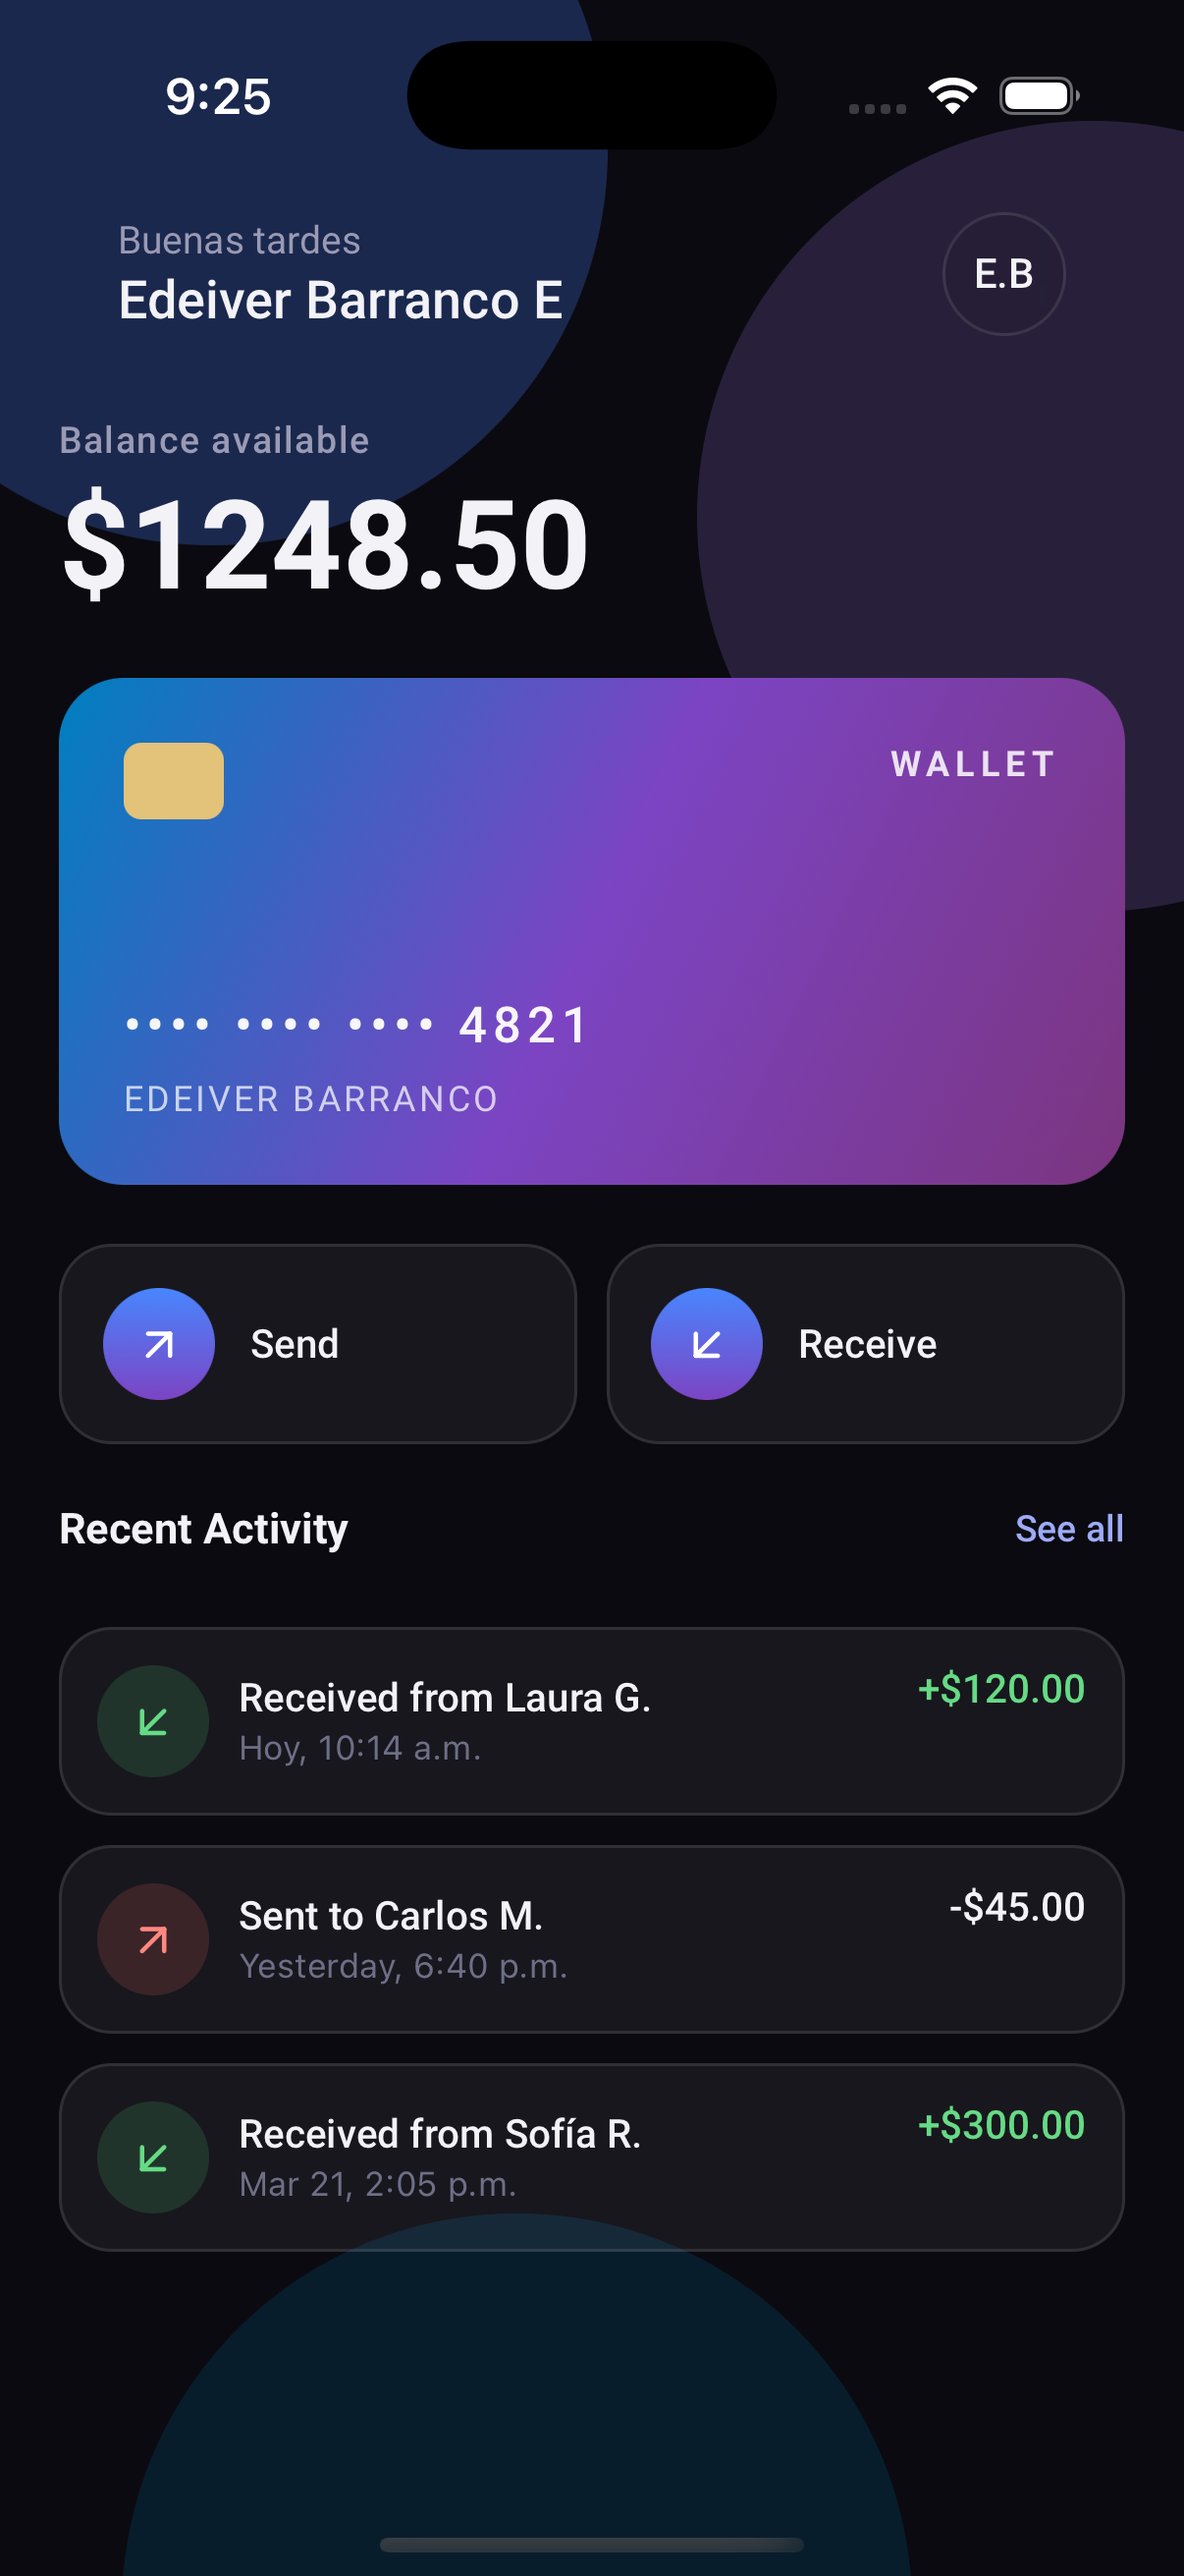
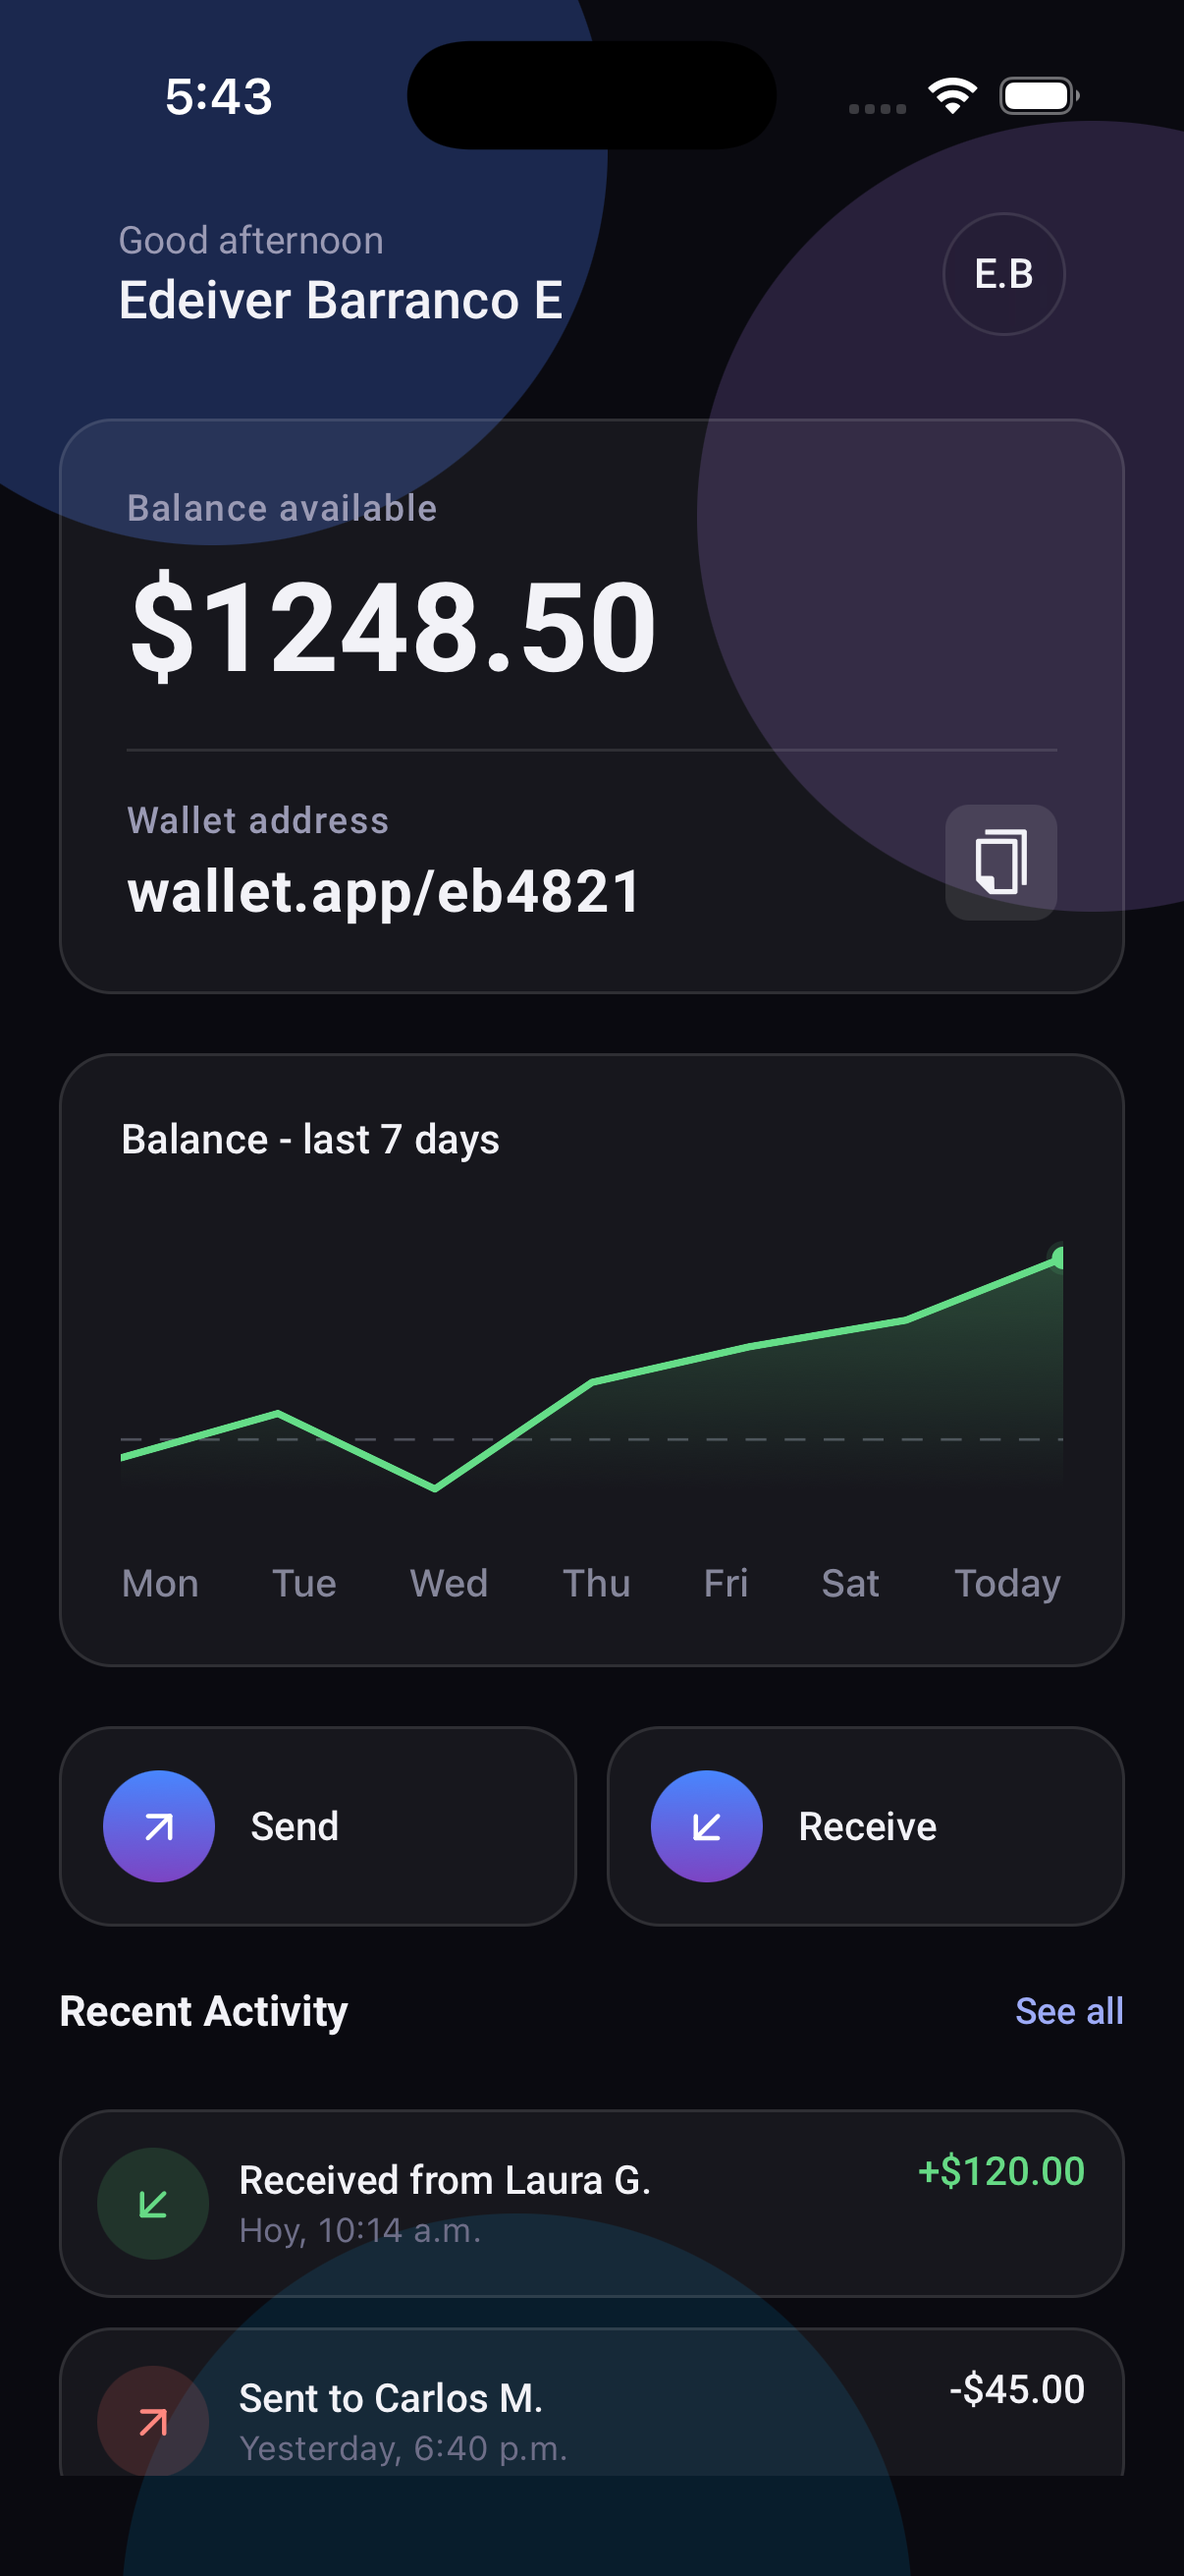
Add BalanceChart component, update Header greeting, and enhance Home screen with wallet address and copy functionality

diff --git a/src/components/BalanceChart.js b/src/components/BalanceChart.js
@@ -1,0 +1,177 @@
+import React, { useState } from "react";
+import { View, Text, StyleSheet } from "react-native";
+import Svg, {
+  Path,
+  Line,
+  Circle,
+  Defs,
+  LinearGradient,
+  Stop,
+} from "react-native-svg";
+import { COLORS, globalStyles } from "../styles";
+
+export default function BalanceChart({ data = [45, 55, 38, 62, 70, 76, 90] }) {
+  const [size, setSize] = useState({
+    width: 0,
+    height: 0,
+  });
+
+  const labels = ["Mon", "Tue", "Wed", "Thu", "Fri", "Sat", "Today"];
+
+  const handleLayout = (event) => {
+    const { width, height } = event.nativeEvent.layout;
+
+    setSize({
+      width,
+      height,
+    });
+  };
+
+  const width = size.width;
+
+  // Si todavía no conocemos el ancho, no dibujamos el SVG
+  if (!width) {
+    return (
+      <View
+        style={[globalStyles.glassCard, styles.container]}
+        onLayout={handleLayout}
+      />
+    );
+  }
+
+  /*
+   * El gráfico utiliza una proporción del espacio disponible
+   * en lugar de un tamaño fijo.
+   */
+  const chartHeight = width * 0.35;
+
+  const chartTop = chartHeight * 0.15;
+  const chartBottom = chartHeight * 0.85;
+
+  const minValue = Math.min(...data);
+  const maxValue = Math.max(...data);
+
+  const points = data.map((value, index) => {
+    const x = (index * width) / (data.length - 1);
+
+    const normalized = (value - minValue) / (maxValue - minValue || 1);
+
+    const y = chartBottom - normalized * (chartBottom - chartTop);
+
+    return {
+      x,
+      y,
+    };
+  });
+
+  const linePath = points
+    .map((point, index) => {
+      return `${index === 0 ? "M" : "L"} ${point.x} ${point.y}`;
+    })
+    .join(" ");
+
+  const areaPath = `
+    ${linePath}
+    L ${points[points.length - 1].x} ${chartBottom}
+    L ${points[0].x} ${chartBottom}
+    Z
+  `;
+
+  const guideLineY = chartBottom - chartHeight * 0.15;
+
+  return (
+    <View
+      style={[globalStyles.glassCard, styles.container]}
+      onLayout={handleLayout}
+    >
+      <Text style={styles.title}>Balance - last 7 days</Text>
+      <Svg
+        width="100%"
+        height={chartHeight}
+        viewBox={`0 0 ${width} ${chartHeight}`}
+      >
+        <Defs>
+          <LinearGradient id="chartGradient" x1="0" y1="0" x2="0" y2="1">
+            <Stop offset="0" stopColor="#65DD88" stopOpacity="0.25" />
+
+            <Stop offset="1" stopColor="#65DD88" stopOpacity="0" />
+          </LinearGradient>
+        </Defs>
+
+        {/* Línea horizontal punteada */}
+        <Line
+          x1="0"
+          y1={guideLineY}
+          x2={width}
+          y2={guideLineY}
+          stroke="#656875"
+          strokeWidth="1"
+          strokeDasharray="8 7"
+          opacity={0.7}
+        />
+
+        {/* Área debajo del gráfico */}
+        <Path d={areaPath} fill="url(#chartGradient)" />
+
+        {/* Línea */}
+        <Path
+          d={linePath}
+          fill="none"
+          stroke="#65DD88"
+          strokeWidth={width * 0.008}
+          strokeLinecap="round"
+          strokeLinejoin="round"
+        />
+
+        {/* Punto final */}
+        <Circle
+          cx={points[points.length - 1].x}
+          cy={points[points.length - 1].y}
+          r={width * 0.012}
+          fill="#65DD88"
+        />
+
+        {/* Halo */}
+        <Circle
+          cx={points[points.length - 1].x}
+          cy={points[points.length - 1].y}
+          r={width * 0.018}
+          fill="#65DD88"
+          opacity="0.12"
+        />
+      </Svg>
+
+      <View style={styles.labels}>
+        {labels.map((label) => (
+          <Text key={label} style={styles.label}>
+            {label}
+          </Text>
+        ))}
+      </View>
+    </View>
+  );
+}
+
+const styles = StyleSheet.create({
+  container: {
+    width: "100%",
+    padding: 20,
+  },
+
+  labels: {
+    flexDirection: "row",
+    justifyContent: "space-between",
+  },
+
+  label: {
+    color: "#85869A",
+    fontSize: 13,
+    fontWeight: "500",
+  },
+  title: {
+    ...globalStyles.robotoMedium,
+    fontSize: 14,
+    color: COLORS.textPrimary,
+    marginBottom: 8,
+  },
+});

diff --git a/src/screens/Home.js b/src/screens/Home.js
@@ -19,13 +19,24 @@ import { globalStyles, COLORS } from "../styles";
 import ViewComponent from "../components/ViewComponent";
 import { useBalance } from "../context/BalanceContext";
 import { fetchTransactionsFake } from "../api/fakeApi";
+import {AntDesign} from '@expo/vector-icons';
+import BalanceChart from "../components/BalanceChart";
+import * as Clipboard from "expo-clipboard";
+import { useToast } from "../context/ToastContext";
 
 const Home = ({ navigation }) => {
   const { signOut } = useContext(AuthContext);
+  const { address } =  useBalance();
+  const { showToast } = useToast();
   const { balance, transactions, setTransactions, loadingTransactions, setLoadingTransactions, fetchTransactions } = useBalance();
   const [loading, setLoading] = useState(false);
   
+  const walletAddress = address ;
 
+const copy = async () => {
+    await Clipboard.setStringAsync(walletAddress);
+    showToast("Address copied", "success");
+  };
 
   useEffect(() => {
     fetchTransactions();
@@ -38,11 +49,23 @@ const Home = ({ navigation }) => {
         {/**
          * Balace
          */}
-        <View style={[styles.balaceDiv]}>
+        <View style={[styles.balaceDiv, globalStyles.glassCard]}>
           <Text style={styles.balanceLabel}>Balance available</Text>
           <Text style={styles.balanceAmount}>${balance.toFixed(2)}</Text>
+          <View style={styles.balanceDivider} />
+          <View style={[globalStyles.row, globalStyles.spaceBetween, globalStyles.alignItemsCenter]}>
+            <View>
+              <Text style={styles.balanceLabel}>{'Wallet address'}</Text>
+              <Text style={styles.walletAddress}>{walletAddress}</Text>
+            </View>
+            <TouchableOpacity onPress={() => {copy()}} style={styles.copyIcon}>
+              <AntDesign name="copy" size={22} color={COLORS.textPrimary} />
+            </TouchableOpacity>
+          </View>
+
         </View>
-        <LinearGradient
+        <BalanceChart/>
+        {/* <LinearGradient
           colors={[COLORS.meshBlue, COLORS.accentEnd, "#7B357F"]}
           start={{ x: 0, y: 0 }}
           end={{ x: 1, y: 1 }}
@@ -56,7 +79,7 @@ const Home = ({ navigation }) => {
             <Text style={styles.cardNumber}>•••• •••• •••• 4821</Text>
             <Text style={styles.cardHolder}>EDEIVER BARRANCO</Text>
           </View>
-        </LinearGradient>
+        </LinearGradient> */}
         <View
           style={[globalStyles.row, globalStyles.spaceBetween, { gap: 10 }]}
         >
@@ -136,17 +159,26 @@ const styles = StyleSheet.create({
   },
   balaceDiv: {
     gap: 4,
+    padding: 22,
+  
   },
   balanceLabel: {
     ...globalStyles.robotoMedium,
     fontSize: 12.5,
     color: COLORS.textSecondary,
     letterSpacing: 0.5,
+    marginBottom: 5,
   },
   balanceAmount: {
     ...globalStyles.robotoBold,
     fontSize: 42,
     color: COLORS.textPrimary,
+  },
+  walletAddress: {
+    ...globalStyles.robotoBold,
+    fontSize:20,
+    color: COLORS.textPrimary,
+    letterSpacing: 0.5,
   },
   card: {
     borderRadius: 22,
@@ -160,6 +192,7 @@ const styles = StyleSheet.create({
     borderRadius: 6,
     backgroundColor: "#E3C27A",
   },
+  copyIcon:{ padding: 8, borderRadius: 8, backgroundColor: COLORS.glassBorder },
   brand: {
     ...globalStyles.robotoBold,
     fontSize: 12,
@@ -206,5 +239,10 @@ const styles = StyleSheet.create({
     ...globalStyles.robotoMedium,
     fontSize: 12.5,
     color: COLORS.accentLink,
+  },
+  balanceDivider: {
+    height: 1,
+    backgroundColor: COLORS.glassBorder,
+    marginVertical: 12,
   },
 });

diff --git a/src/context/BalanceContext.js b/src/context/BalanceContext.js
@@ -6,6 +6,7 @@ const BalanceContext = createContext(null);
 export const BalanceProvider = ({ children }) => {
   const [balance, setBalance] = useState(1248.5); // Initial balance
   const [transactions, setTransactions] = useState([]);
+  const [address, setAddress] = useState('wallet.app/eb4821');
   const [loadingTransactions, setLoadingTransactions] = useState(false);
   const fetchTransactions = async () => {
     setLoadingTransactions(true);
@@ -28,7 +29,8 @@ export const BalanceProvider = ({ children }) => {
         setTransactions,
         loadingTransactions,
         setLoadingTransactions,
-        fetchTransactions
+        fetchTransactions,
+        address
       }}
     >
       {children}

diff --git a/src/components/Header.js b/src/components/Header.js
@@ -10,7 +10,7 @@ const Header = ({ isHome=true, name = 'Edeiver Barranco E', initials = 'E.B' }) 
                 isHome &&
                 <View style={[styles.homeHeader, globalStyles.row, globalStyles.spaceBetween, globalStyles.alignItemsCenter]}>
                     <View>
-                        <Text style={styles.greeting}>Buenas tardes</Text>
+                        <Text style={styles.greeting}>Good afternoon</Text>
                         <Text style={styles.name}>{name}</Text>
                     </View>
                     <BlurView intensity={40} tint="dark" style={styles.avatar}>
